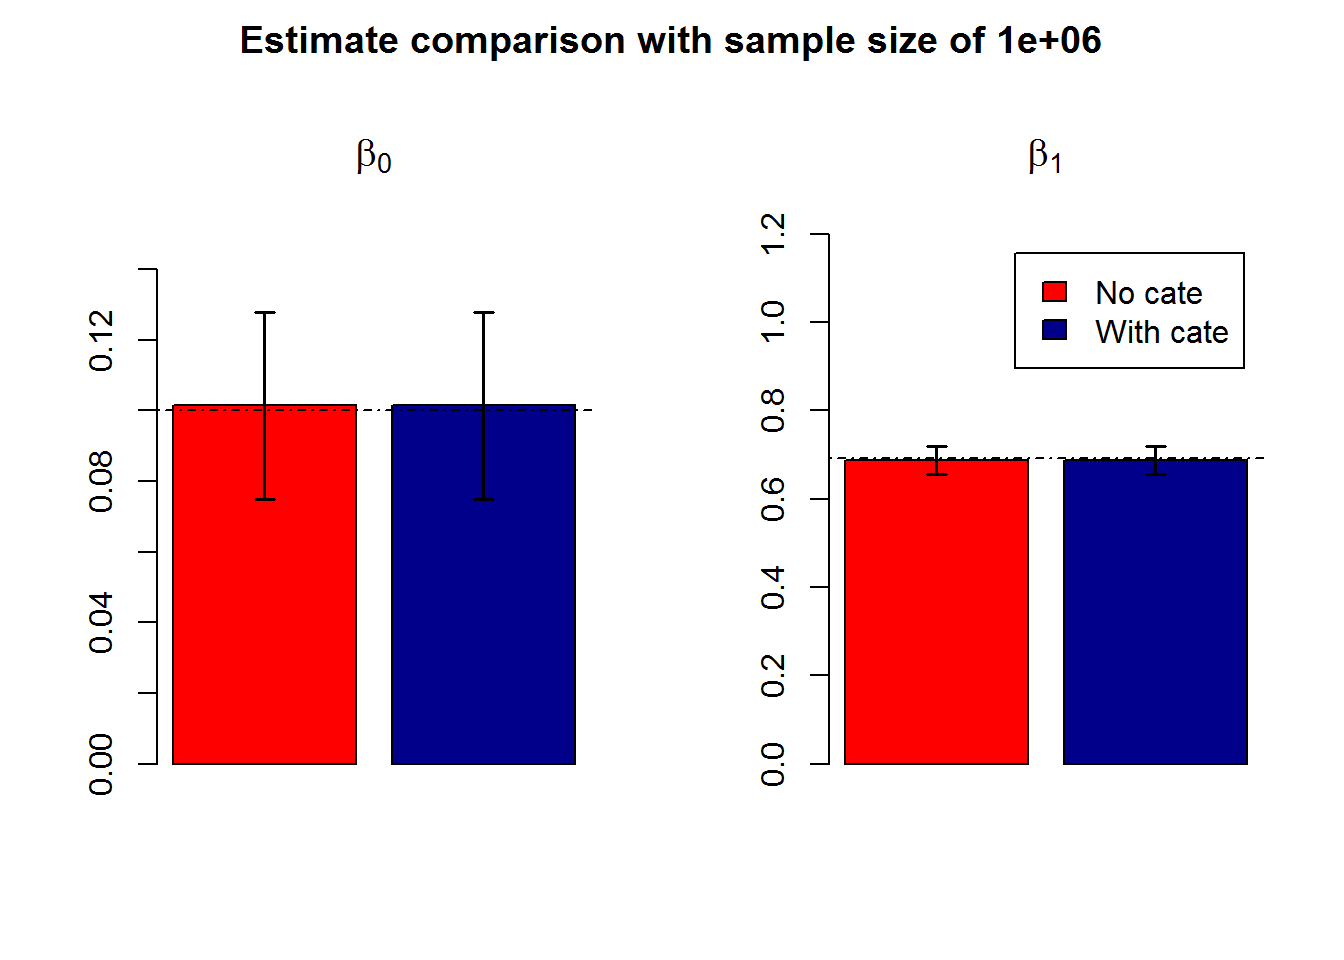
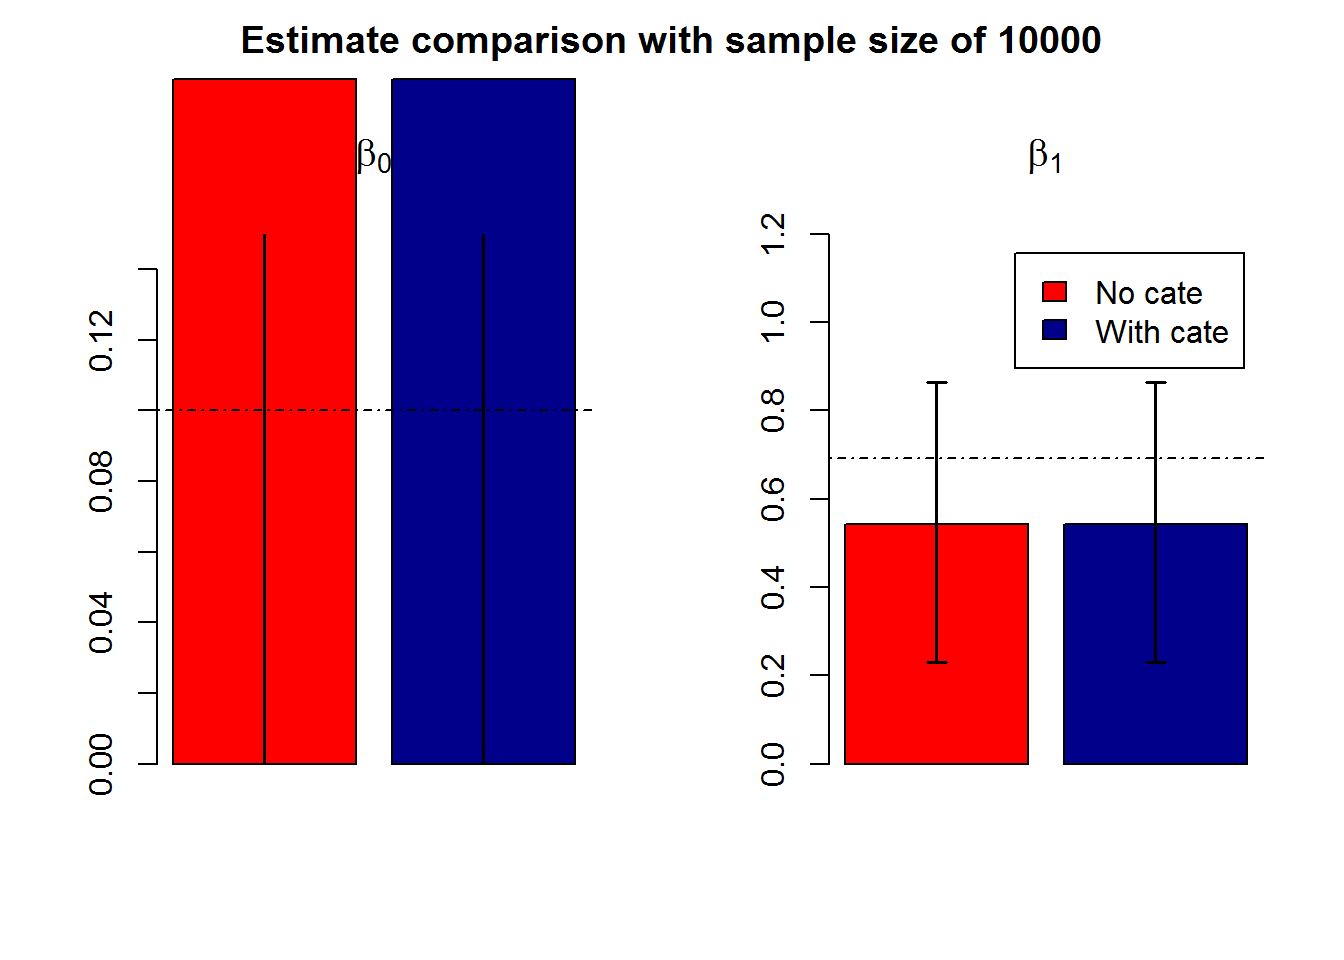
Apr92018

Changed region(s): [[0.125, 0.0312, 0.8125, 0.4375], [0.625, 0.4375, 0.9375, 0.5625]]

diff --git a/docs/modeling.html b/docs/modeling.html
@@ -320,10 +320,10 @@ div.section {
 shared across the workflowr files. -->
 <!-- Update knitr chunk options -->
 <!-- Insert the date the file was last updated -->
-<p><strong>Last updated:</strong> 2018-04-06</p>
+<p><strong>Last updated:</strong> 2018-04-09</p>
 <!-- Insert the code version (Git commit SHA1) if Git repository exists and R
  package git2r is installed -->
-<p><strong>Code version:</strong> d564c47</p>
+<p><strong>Code version:</strong> c91c42c</p>
 <!-- Add your analysis here -->
 <div id="session-information" class="section level2">
 <h2>Session information</h2>
@@ -395,9 +395,11 @@ l(\beta)=\sum_j[Y_jlog(\mu_{j0}e^{X_j^T\beta})]-\sum_j[\mu_{j0}e^{X_j^T\beta}]+c
 <h2>Simulations</h2>
 <div id="constant-baseline-mutation-rate-mu_0" class="section level3">
 <h3>Constant baseline mutation rate <span class="math inline">\(\mu_0\)</span></h3>
-<pre class="r"><code>rm(list=ls())
+<div id="use-true-baseline-mutation-rate-as-offset" class="section level4">
+<h4>Use true baseline mutation rate as offset</h4>
+<pre class="r"><code>#rm(list=ls())
 set.seed(1000)
-n &lt;- 1000000
+n &lt;- 10000
 baseline.rate=0.01
 #regression coefficients
  beta0 &lt;- 0.1
@@ -420,17 +422,54 @@ fit.conf=confint(fit)</code></pre>
 <pre><code>Waiting for profiling to be done...</code></pre>
 <p><img src="figure/modeling.Rmd/unnamed-chunk-2-1.png" width="672" style="display: block; margin: auto;" /></p>
 <ul>
+<li>sample size, i.e. number of windows <span class="math inline">\(N=10^4\)</span></li>
+<li>baseline rate is constant across all windows <span class="math inline">\(\mu_0=0.01\)</span>.</li>
+<li><span class="math inline">\(\beta_0=0.1, \beta_1=log(2)\)</span>.</li>
+</ul>
+<pre><code>Waiting for profiling to be done...
+Waiting for profiling to be done...</code></pre>
+<p><img src="figure/modeling.Rmd/unnamed-chunk-4-1.png" width="672" style="display: block; margin: auto;" /></p>
+<ul>
 <li>sample size, i.e. number of windows <span class="math inline">\(N=10^6\)</span></li>
 <li>baseline rate is constant across all windows <span class="math inline">\(\mu_0=0.01\)</span>.</li>
 <li><span class="math inline">\(\beta_0=0.1, \beta_1=log(2)\)</span>.</li>
 </ul>
+<p><img src="figure/modeling.Rmd/unnamed-chunk-5-1.png" width="672" style="display: block; margin: auto;" /></p>
+<ul>
+<li>when use true baseline mutation rate, GLM with categorization and without give mostly identical results and both results are approaching to their true values when <span class="math inline">\(n \geq 10^6\)</span>.</li>
+</ul>
+</div>
+<div id="use-estimated-baseline-mutation-rate" class="section level4">
+<h4>Use estimated baseline mutation rate</h4>
+<p>In most cases, we never know the true baseline mutation rate, so we may have to use their estimates</p>
+<pre class="r"><code>fit=glm(data$y~data$x+offset(log(rep(sum(data$y)/n, n))), family=poisson())
+cate.fit=glm(cate.data$y~cate.data$x+offset(log(c(sum(cate.data$y)/n*sum(x==cate.data$x[1]), sum(cate.data$y)/n*sum(x==cate.data$x[2])))), family=poisson())</code></pre>
+<p><img src="figure/modeling.Rmd/unnamed-chunk-7-1.png" width="672" style="display: block; margin: auto;" /></p>
+<ul>
+<li>with estimated baseline mutation rate as offset, intercept esmtiate is not correct, but <span class="math inline">\(\widehat{\beta_1}\)</span> is good.</li>
+</ul>
+</div>
 </div>
 <div id="variable-baseline-mutatiom-rate-mu_i0" class="section level3">
 <h3>Variable baseline mutatiom rate <span class="math inline">\(\mu_{i0}\)</span></h3>
+<div id="use-true-baseline-mutation-rate" class="section level4">
+<h4>use true baseline mutation rate</h4>
 <pre><code>Waiting for profiling to be done...
 Waiting for profiling to be done...</code></pre>
-<p><img src="figure/modeling.Rmd/unnamed-chunk-4-1.png" width="672" style="display: block; margin: auto;" /></p>
-<p><img src="figure/modeling.Rmd/unnamed-chunk-5-1.png" width="672" style="display: block; margin: auto;" /></p>
+<p><img src="figure/modeling.Rmd/unnamed-chunk-9-1.png" width="672" style="display: block; margin: auto;" /></p>
+<ul>
+<li><span class="math inline">\(\mu_{i0}\)</span> is generated by <span class="math inline">\(\mu_{i0} \sim rbeta(n, 1, 100)\)</span></li>
+</ul>
+<p><img src="figure/modeling.Rmd/unnamed-chunk-10-1.png" width="672" style="display: block; margin: auto;" /></p>
+</div>
+<div id="use-estimated-baseline-mutation-rate-1" class="section level4">
+<h4>use estimated baseline mutation rate</h4>
+<pre class="r"><code>fit=glm(data$y~data$x+offset(log(rep(sum(data$y)/n, n))), family=poisson())
+cate.fit=glm(cate.data$y~cate.data$x+offset(log(c(sum(cate.data$y)/n*sum(x==cate.data$x[1]), sum(cate.data$y)/n*sum(x==cate.data$x[2])))), family=poisson())</code></pre>
+<p><img src="figure/modeling.Rmd/unnamed-chunk-12-1.png" width="672" style="display: block; margin: auto;" /></p>
+<ul>
+<li>with estimated baseline mutation rate as offset, intercept esmtiate is not correct, but <span class="math inline">\(\widehat{\beta_1}\)</span> is good.</li>
+</ul>
 <!-- Insert the session information into the document -->
 <pre class="r"><code>sessionInfo()</code></pre>
 <pre><code>R version 3.4.3 (2017-11-30)
@@ -450,10 +489,11 @@ attached base packages:
 [1] stats     graphics  grDevices utils     datasets  methods   base     
 
 loaded via a namespace (and not attached):
- [1] MASS_7.3-47     compiler_3.4.3  backports_1.0.5 magrittr_1.5   
- [5] rprojroot_1.3-1 tools_3.4.3     htmltools_0.3.5 yaml_2.1.16    
- [9] Rcpp_0.12.10    stringi_1.1.5   rmarkdown_1.8   knitr_1.17     
-[13] git2r_0.21.0    stringr_1.2.0   digest_0.6.12   evaluate_0.10  </code></pre>
+ [1] compiler_3.4.3  backports_1.0.5 magrittr_1.5    rprojroot_1.3-1
+ [5] tools_3.4.3     htmltools_0.3.5 yaml_2.1.16     Rcpp_0.12.10   
+ [9] stringi_1.1.5   rmarkdown_1.8   knitr_1.17      git2r_0.21.0   
+[13] stringr_1.2.0   digest_0.6.12   evaluate_0.10  </code></pre>
+</div>
 </div>
 </div>
 
